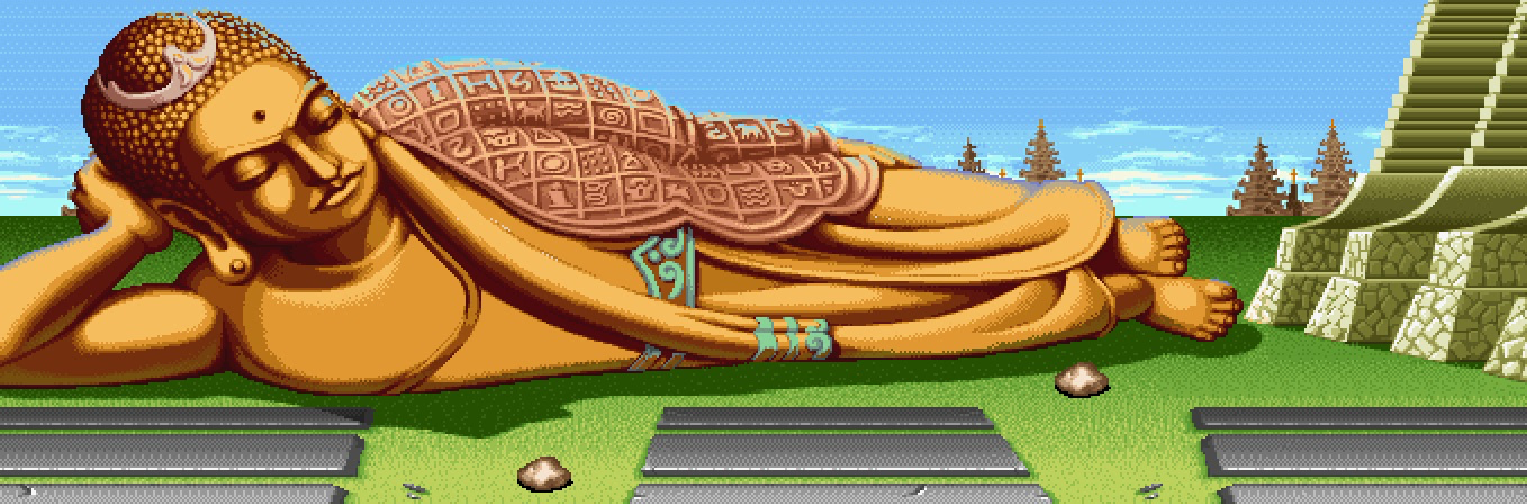
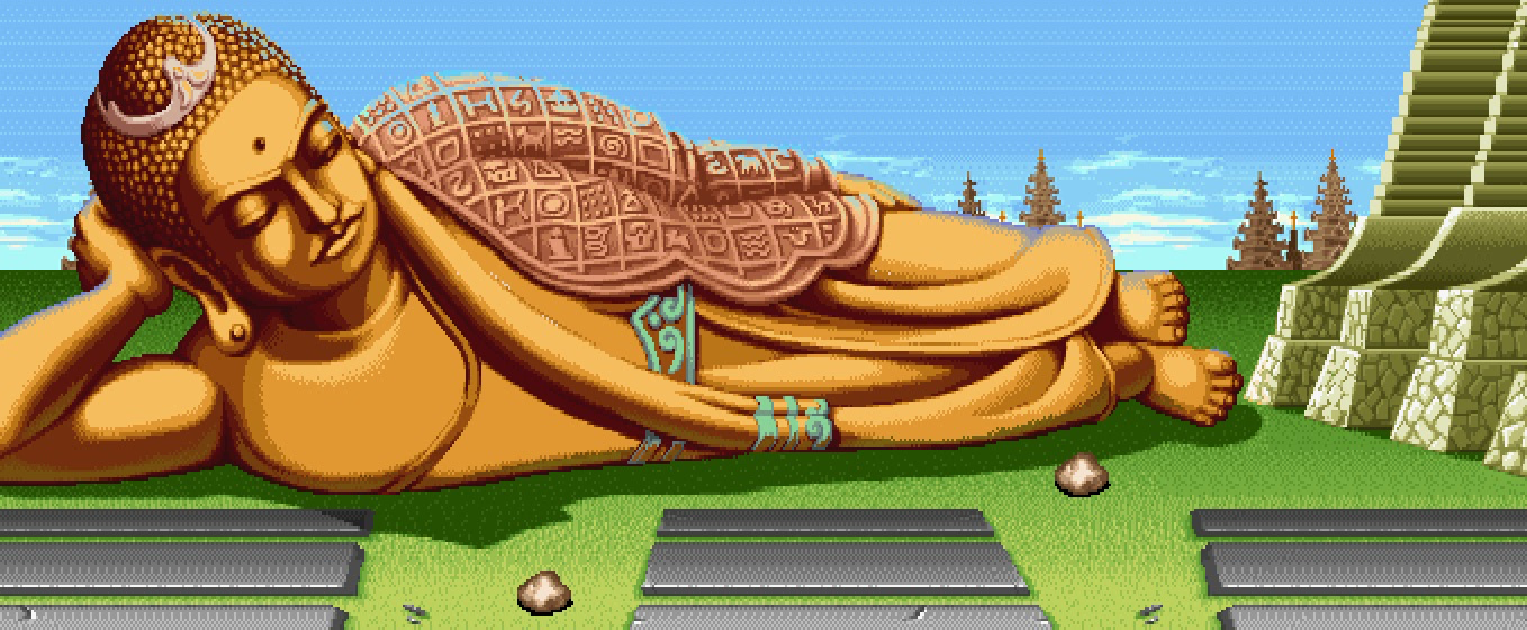
added refresh button, edited images to fit

diff --git a/index.html b/index.html
@@ -10,7 +10,7 @@
   <body>
 
     <img class="fighter" src="TFAssets/TweetFighter.png" alt="">
-    <img class="diamond_plate" src="TFAssets/20708928-background-of-metal-diamond-plate-in-grungy-color.jpg" alt="">
+    <img class="diamond_plate" src="TFAssets/stock-photo-garage-floor-and-room-of-diamond-plate-metal-background-124281409.jpg" alt="">
 <script type="text/javascript" src="background.js"></script>
 <script type="text/javascript">
 ChangeIt();
@@ -35,7 +35,7 @@ ChangeIt();
 
           <button id="toggler" type="submit">PICK A FIGHT!</button>
 
-          <span id=cal_title>click the month of the beef</span>
+          <span id="cal_title">click the month of the beef</span>
 
           <div id="calendar">
             <!-- calendar goes here -->
@@ -57,6 +57,7 @@ ChangeIt();
 
         </form>
       </section>
+      <input class="refresh" type="button" value="Refresh Page" onclick="window.location.reload()">
     </main>
 
   </body>

diff --git a/style.css b/style.css
@@ -27,6 +27,13 @@ body {
 
 }
 
+.refresh {
+  margin-top: 110px;
+  margin-left: 195px;
+  color: #e2600d;
+  background-color: inherit;
+}
+
 .fighter {
   height: 100px;
   width: 260px;
